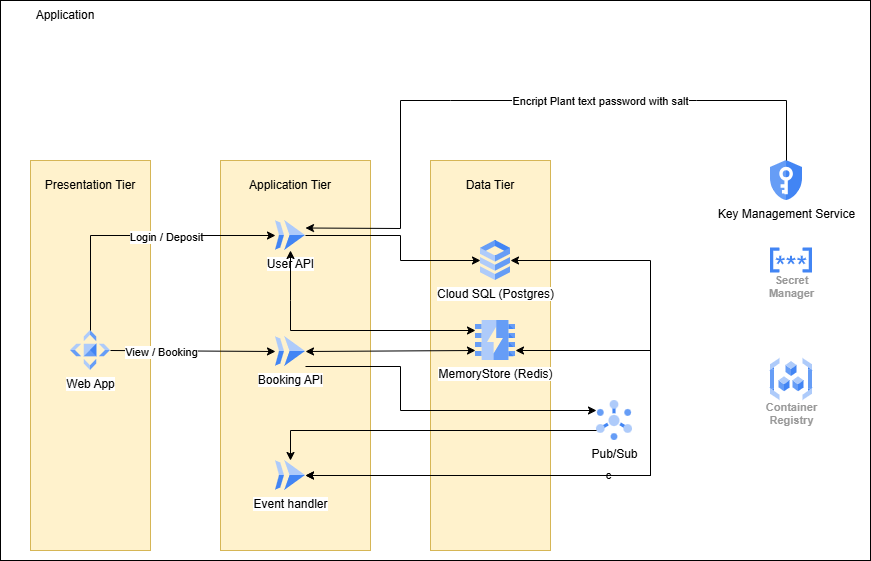
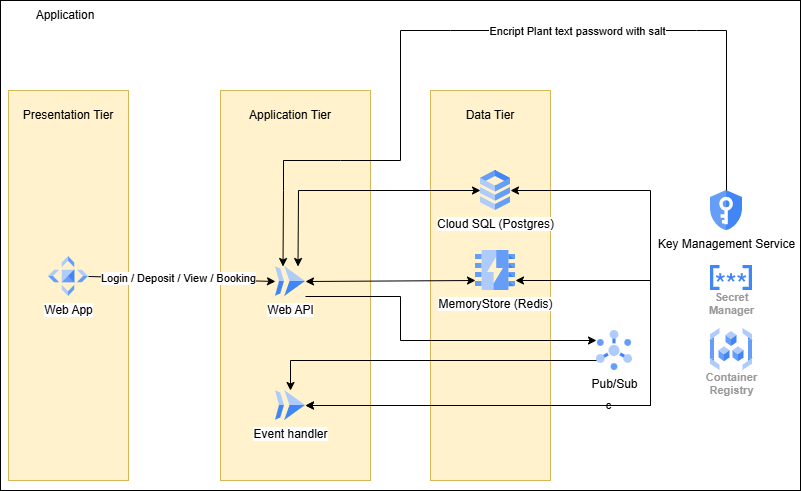
Udpdate diagram & test

diff --git a/testing/k6/output/v2/booking.html b/testing/k6/output/v2/booking.html
@@ -10,7 +10,7 @@
     <link href="https://fonts.googleapis.com/css2?family=Inter:wght@300;400;500;600;700&display=swap" rel="stylesheet">
 
     <meta name="viewport" content="width=device-width, initial-scale=1.0" />
-    <title>Test Report: 2025-10-23 07:21</title>
+    <title>Test Report: 2025-10-23 09:13</title>
     <style>
       * {
         margin: 0;
@@ -473,7 +473,7 @@
       <header>
         <h1>
           <svg width="50" height="45" viewBox="0 0 50 45" fill="none"><path d="M31.968 34.681a2.007 2.007 0 002.011-2.003c0-1.106-.9-2.003-2.011-2.003a2.007 2.007 0 00-2.012 2.003c0 1.106.9 2.003 2.012 2.003z" fill="white"></path><path d="M39.575 0L27.154 16.883 16.729 9.31 0 45h50L39.575 0zM23.663 37.17l-2.97-4.072v4.072h-2.751V22.038l2.75 1.989v7.66l3.659-5.014 2.086 1.51-3.071 4.21 3.486 4.776h-3.189v.001zm8.305.17c-2.586 0-4.681-2.088-4.681-4.662 0-1.025.332-1.972.896-2.743l4.695-6.435 2.086 1.51-2.239 3.07a4.667 4.667 0 013.924 4.6c0 2.572-2.095 4.66-4.681 4.66z" fill="white"></path></svg>
-          Test Report: 2025-10-23 07:21
+          Test Report: 2025-10-23 09:13
         </h1>
       </header>
 
@@ -484,7 +484,7 @@
             <i class="fas fa-globe icon"></i>
             <h4>Total Requests</h4>
             <div class="metric-value">
-              602942
+              499255
               
             </div>
           </div>
@@ -542,13 +542,13 @@
                   <tr>
                     <td><b>http_req_blocked</b></td>
                     
-                      <td class="">0.74</td>
+                      <td class="">1.55</td>
                     
                       <td class="">0.00</td>
                     
                       <td class="">0.00</td>
                     
-                      <td class="">1983.30</td>
+                      <td class="">5459.60</td>
                     
                       <td class="">0.00</td>
                     
@@ -559,13 +559,13 @@
                   <tr>
                     <td><b>http_req_connecting</b></td>
                     
-                      <td class="">0.35</td>
+                      <td class="">0.76</td>
                     
                       <td class="">0.00</td>
                     
                       <td class="">0.00</td>
                     
-                      <td class="">1312.97</td>
+                      <td class="">1868.55</td>
                     
                       <td class="">0.00</td>
                     
@@ -576,64 +576,64 @@
                   <tr>
                     <td><b>http_req_duration</b></td>
                     
-                      <td class="">222.77</td>
+                      <td class="">269.40</td>
                     
-                      <td class="">48.76</td>
+                      <td class="">50.79</td>
                     
-                      <td class="">147.85</td>
+                      <td class="">249.07</td>
                     
-                      <td class="">2857.05</td>
+                      <td class="">5491.49</td>
                     
-                      <td class="">466.47</td>
+                      <td class="">400.54</td>
                     
-                      <td class="good">565.73</td>
+                      <td class="good">472.56</td>
                      
                   </tr>
                   
                   <tr>
                     <td><b>http_req_receiving</b></td>
                     
-                      <td class="">3.34</td>
+                      <td class="">0.50</td>
                     
                       <td class="">0.00</td>
                     
                       <td class="">0.00</td>
                     
-                      <td class="">219.99</td>
+                      <td class="">139.19</td>
                     
-                      <td class="">10.16</td>
+                      <td class="">0.80</td>
                     
-                      <td class="">20.14</td>
+                      <td class="">1.63</td>
                      
                   </tr>
                   
                   <tr>
                     <td><b>http_req_sending</b></td>
                     
-                      <td class="">0.51</td>
+                      <td class="">0.15</td>
                     
                       <td class="">0.00</td>
                     
                       <td class="">0.00</td>
                     
-                      <td class="">1785.91</td>
+                      <td class="">78.04</td>
                     
-                      <td class="">1.00</td>
+                      <td class="">0.55</td>
                     
-                      <td class="">2.04</td>
+                      <td class="">0.65</td>
                      
                   </tr>
                   
                   <tr>
                     <td><b>http_req_tls_handshaking</b></td>
                     
-                      <td class="">0.38</td>
+                      <td class="">0.79</td>
                     
                       <td class="">0.00</td>
                     
                       <td class="">0.00</td>
                     
-                      <td class="">1247.12</td>
+                      <td class="">3819.89</td>
                     
                       <td class="">0.00</td>
                     
@@ -644,34 +644,34 @@
                   <tr>
                     <td><b>http_req_waiting</b></td>
                     
-                      <td class="">218.92</td>
+                      <td class="">268.75</td>
                     
-                      <td class="">48.27</td>
+                      <td class="">45.90</td>
                     
-                      <td class="">145.84</td>
+                      <td class="">248.67</td>
                     
-                      <td class="">2857.05</td>
+                      <td class="">5491.49</td>
                     
-                      <td class="">458.83</td>
+                      <td class="">400.19</td>
                     
-                      <td class="">555.31</td>
+                      <td class="">472.18</td>
                      
                   </tr>
                   
                   <tr>
                     <td><b>iteration_duration</b></td>
                     
-                      <td class="">224.04</td>
+                      <td class="">271.12</td>
                     
-                      <td class="">48.76</td>
+                      <td class="">51.20</td>
                     
-                      <td class="">148.69</td>
+                      <td class="">249.58</td>
                     
-                      <td class="">3415.22</td>
+                      <td class="">6310.95</td>
                     
-                      <td class="">468.36</td>
+                      <td class="">401.89</td>
                     
-                      <td class="">568.23</td>
+                      <td class="">478.62</td>
                      
                   </tr>
                   
@@ -702,7 +702,7 @@
                       <td class="">0.00</td>
                     
                     
-                      <td class="">602942.00</td>
+                      <td class="">499255.00</td>
                      
                   </tr>
                   
@@ -729,11 +729,11 @@
                   <i class="fas fa-redo icon"></i>
                   <div class="stat-row">
                     <span class="stat-label">Total</span>
-                    <span class="stat-value">602942</span>
+                    <span class="stat-value">499255</span>
                   </div>
                   <div class="stat-row">
                     <span class="stat-label">Rate</span>
-                    <span class="stat-value">3328.40/s</span>
+                    <span class="stat-value">2755.13/s</span>
                   </div>
                 </div>
               
@@ -747,7 +747,7 @@
                 </div>
                 <div class="stat-row">
                   <span class="stat-label">Max</span>
-                  <span class="stat-value">1494</span>
+                  <span class="stat-value">1495</span>
                 </div>
               </div>
 
@@ -757,14 +757,14 @@
                 <div class="stat-row">
                   <span class="stat-label">Total</span>
                   <span class="stat-value">
-                    602942
+                    499255
                     
                   </span>
                 </div>
                 <div class="stat-row">
                   <span class="stat-label">Rate</span>
                   <span class="stat-value">
-                    3328.40/s
+                    2755.13/s
                     
                   </span>
                 </div>
@@ -775,11 +775,11 @@
                 <i class="fas fa-cloud-download-alt icon"></i>
                 <div class="stat-row">
                   <span class="stat-label">Total</span>
-                  <span class="stat-value">228.36 MB</span>
+                  <span class="stat-value">190.92 MB</span>
                 </div>
                 <div class="stat-row">
                   <span class="stat-label">Rate</span>
-                  <span class="stat-value">1.26 mB/s</span>
+                  <span class="stat-value">1.05 mB/s</span>
                 </div>
               </div>
 
@@ -788,11 +788,11 @@
                 <i class="fas fa-cloud-upload-alt icon"></i>
                 <div class="stat-row">
                   <span class="stat-label">Total</span>
-                  <span class="stat-value">169.42 MB</span>
+                  <span class="stat-value">140.38 MB</span>
                 </div>
                 <div class="stat-row">
                   <span class="stat-label">Rate</span>
-                  <span class="stat-value">0.94 mB/s</span>
+                  <span class="stat-value">0.77 mB/s</span>
                 </div>
               </div>
             </div>

diff --git a/testing/k6/random-api-call-test.js b/testing/k6/random-api-call-test.js
@@ -1,0 +1,41 @@
+import loginTest from './login-test.js';
+import getReservation from './get-reservations-test.js';
+import getParkingSpot from './get-parking-spots-test.js';
+import depositTest from './deposit-test.js';
+import { workload } from './config/workload.js';
+import { generateRandomFromRange } from './utils/RandomUtils.js'
+import { htmlReport } from './report/libs.js';
+import { textSummary } from './report/k6-summary.js';
+
+
+export const options = {
+    stages: workload.superStress,
+    thresholds: workload.thresholds
+};
+
+export default function() {
+    const randomNum = generateRandomFromRange(1,4);
+    executeApi(randomNum);
+}
+
+function executeApi(num) {
+    switch(num) {
+        case 2:
+            return getReservation();
+        case 3:
+            return getParkingSpot();
+        case 4:
+            return depositTest();
+        case 5:
+            return loginTest();
+        default:
+            return loginTest(); 
+    }
+}
+
+export function handleSummary(data) {
+  return {
+    './output/login.html': htmlReport(data),
+    stdout: textSummary(data, { indent: ' ', enableColors: true }),
+  }
+}

diff --git a/testing/k6/config/workload.js b/testing/k6/config/workload.js
@@ -17,6 +17,12 @@ export const workload = {
             target: 1500
         }
     ],
+    superStress: [
+        {
+            duration: '6m',
+            target: 2000
+        }
+    ],
     thresholds: {
         http_req_failed: ['rate<0.1'], 
         http_req_duration: ['p(95)<60000']
